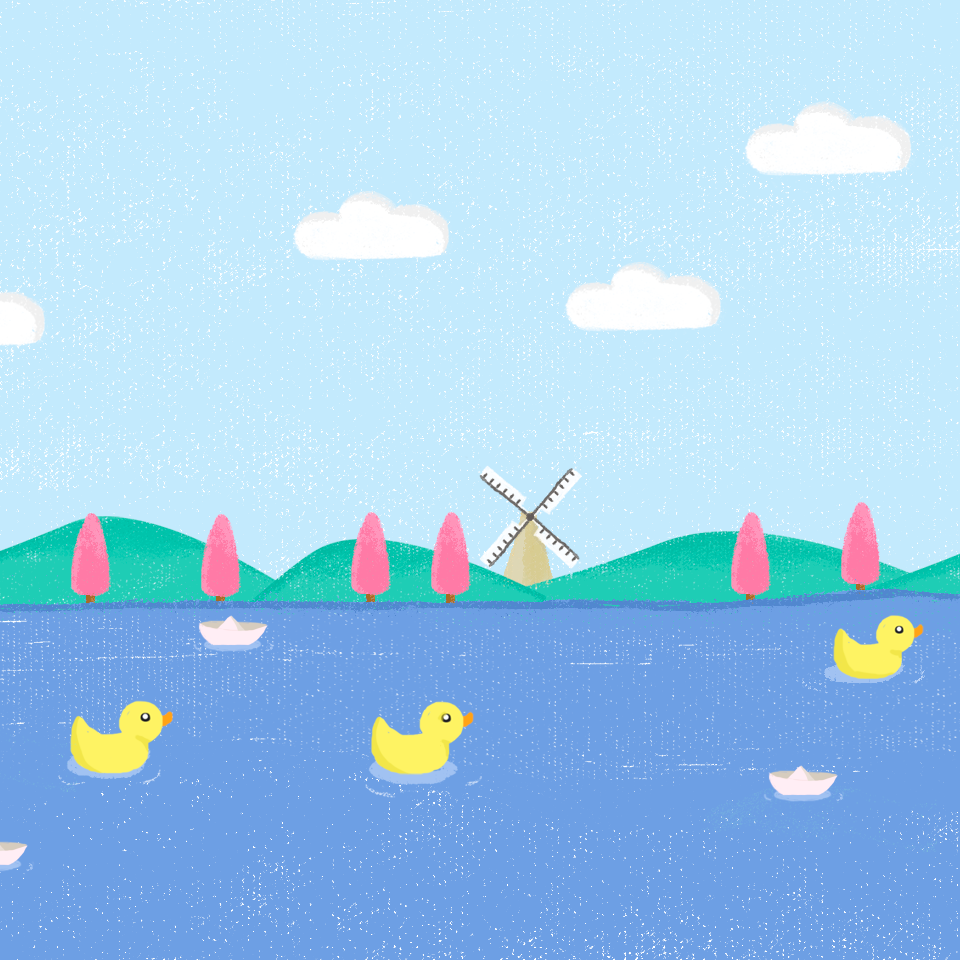
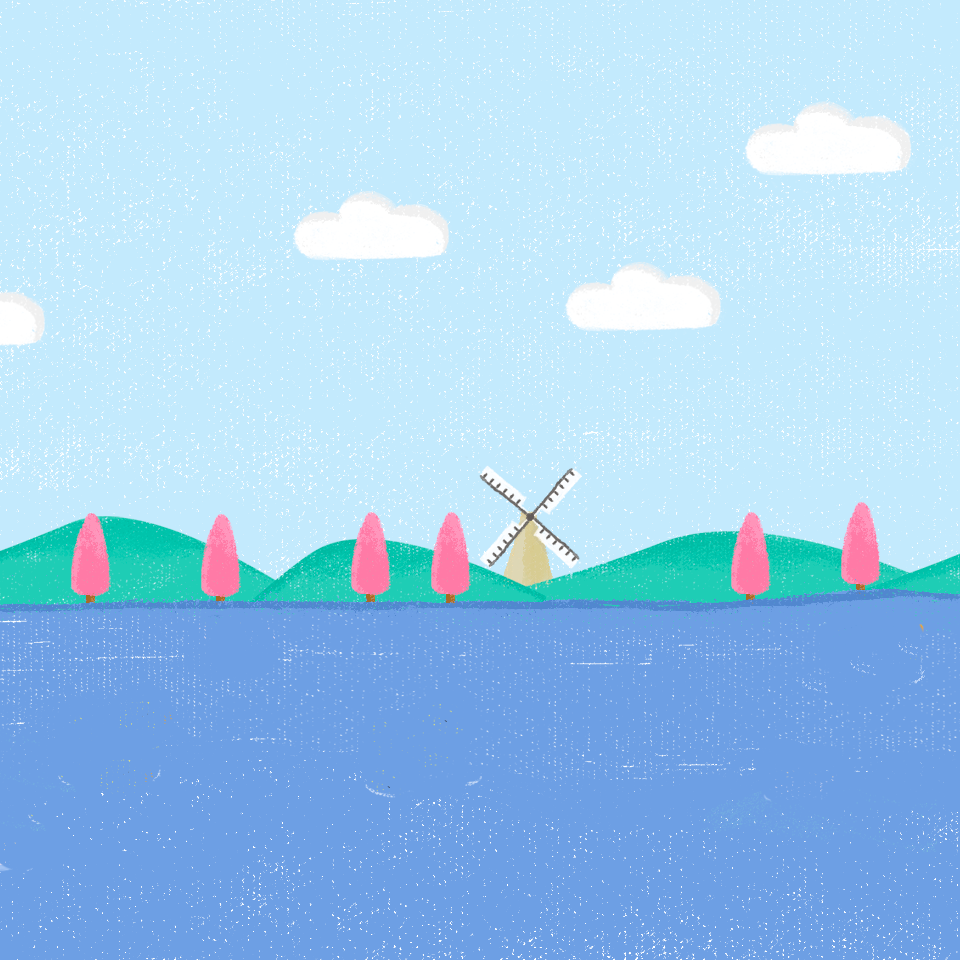
feat: 增加鸭子动画

diff --git a/src/components/Scene/index.js b/src/components/Scene/index.js
@@ -135,7 +135,28 @@ class Scene extends React.Component {
       this.threeAddItem(sea, 'sea')
     })
     
-    
+    // Ornaments
+    let duckGeo = new three.PlaneGeometry(5, 5)
+    loader.load(imgDuck, texture => {
+      let mat = new three.MeshBasicMaterial({
+        map: texture,
+        transparent: true
+      })
+      let item = new three.Mesh(duckGeo, mat)
+      item.position.set(0, -8, -18)
+      
+      let duck1 = item.clone()
+      duck1.position.set(16, -8, 0)
+      duck1.rotateY(-Math.PI / 2)
+      this.threeAddItem(duck1, 'duck1')
+      
+      let duck2 = item.clone()
+      duck2.position.set(16, -8, -16)
+      duck2.rotateY(-Math.PI / 4)
+      this.threeAddItem(duck2, 'duck2')
+      
+      this.threeAddItem(item, 'duck')
+    })
     
     this.state.camera.position.set(0, 0, 10)
   }
@@ -145,7 +166,6 @@ class Scene extends React.Component {
       let timer = Date.now() * .001
       
       this.items.tip.position.y = .5 * Math.cos(timer)
-      // this.items.cube.rotation.y += .05
       
       let seaGeo = this.seaGeo
       
@@ -154,6 +174,10 @@ class Scene extends React.Component {
       }
       
       this.items.sea.geometry.verticesNeedUpdate = true
+  
+      this.items.duck.translateX(.005)
+      this.items.duck1.translateX(.005)
+      this.items.duck2.translateX(.005)
     }
   }
   
